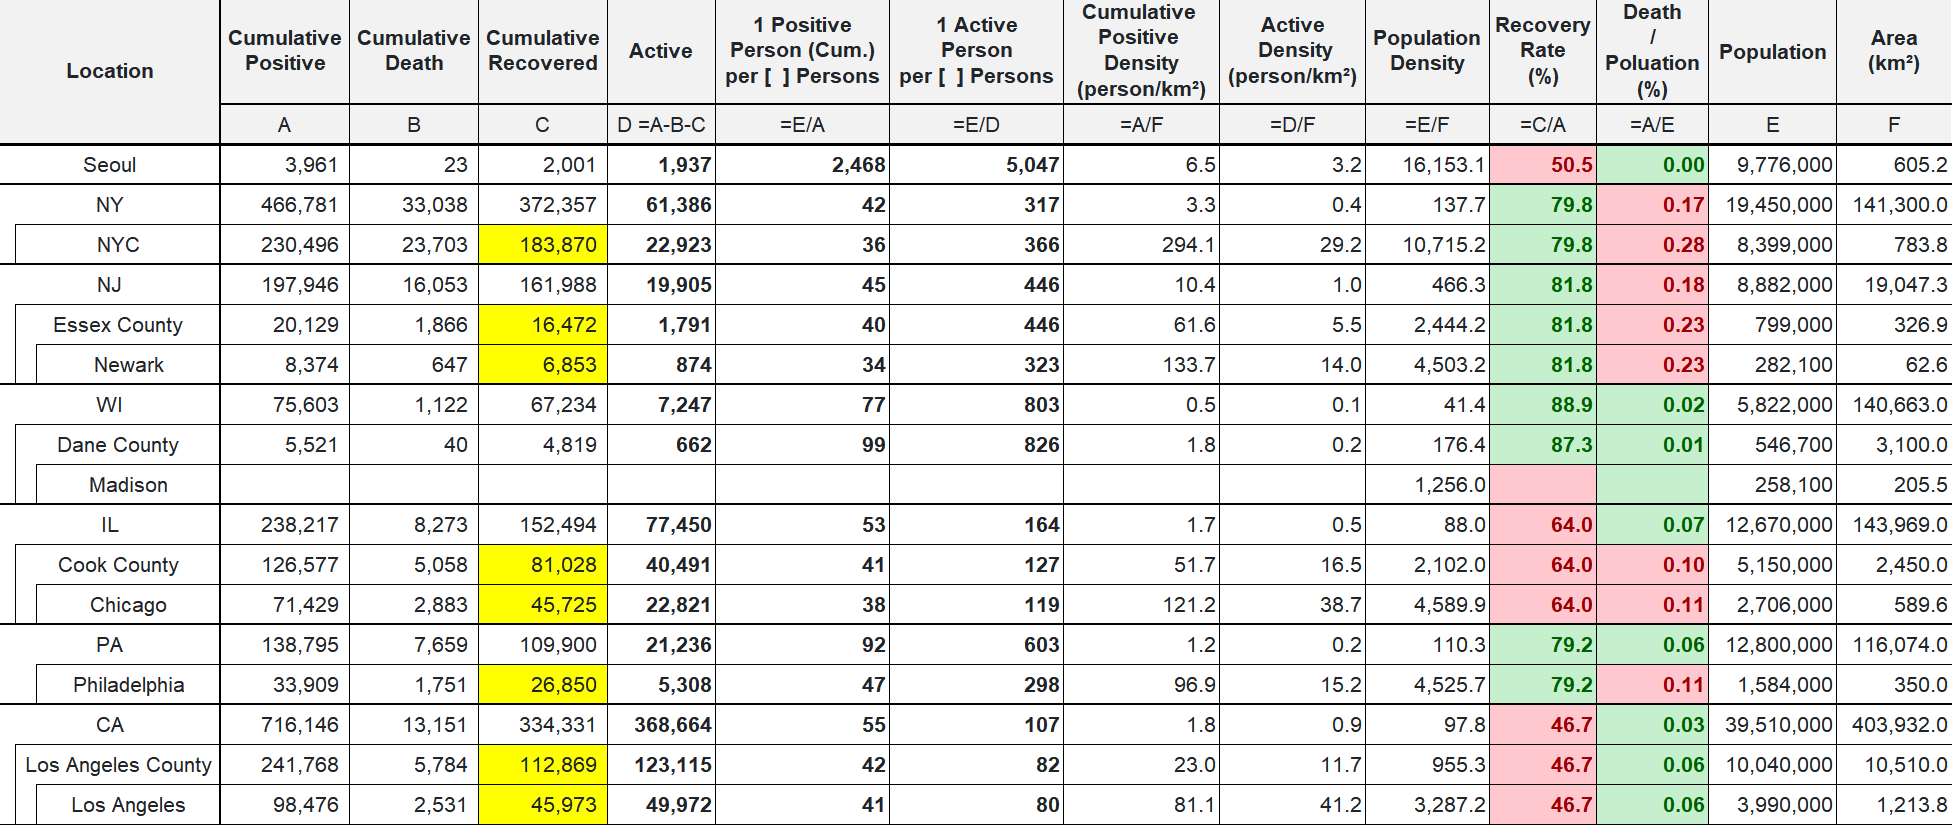
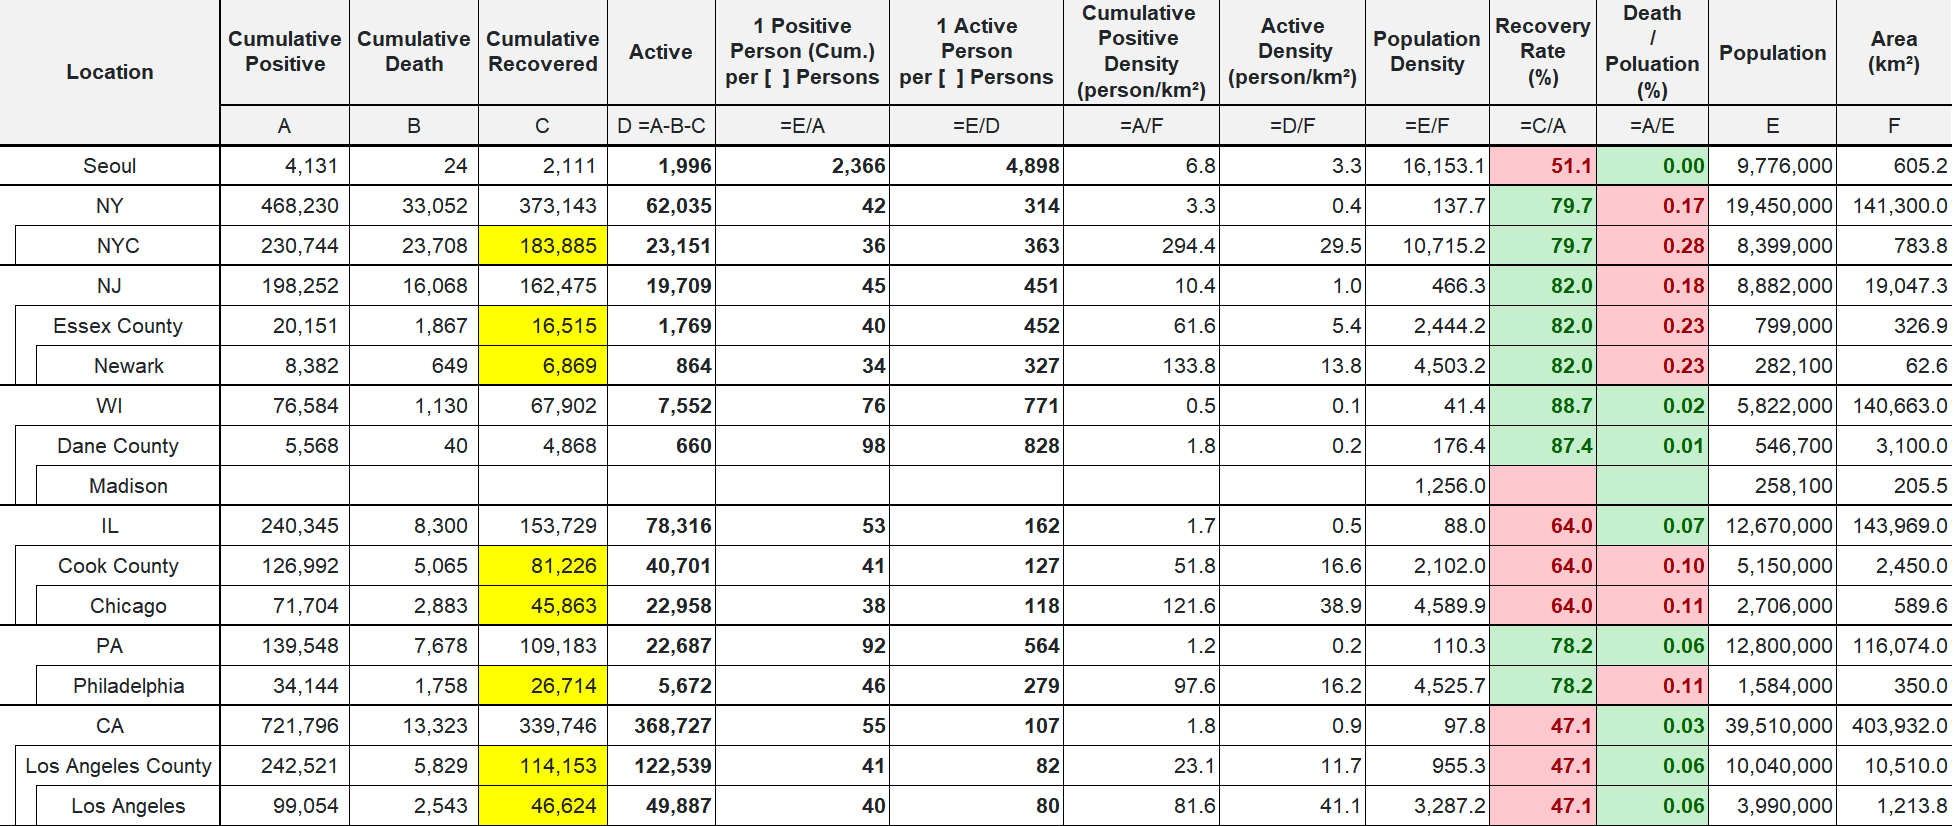
update 9/2 status

diff --git a/index.html b/index.html
@@ -19,7 +19,7 @@
 
 <body class="container-fluid">
 	<h1> CoronaV for Friends</h1>
-	<h2> Data updated at Sep 01 2020 EST 19:45</h2>
+	<h2> Data updated at Sep 02 2020 EST 22:10</h2>
 	<hr>
 	<main>
 		<div class="row">
